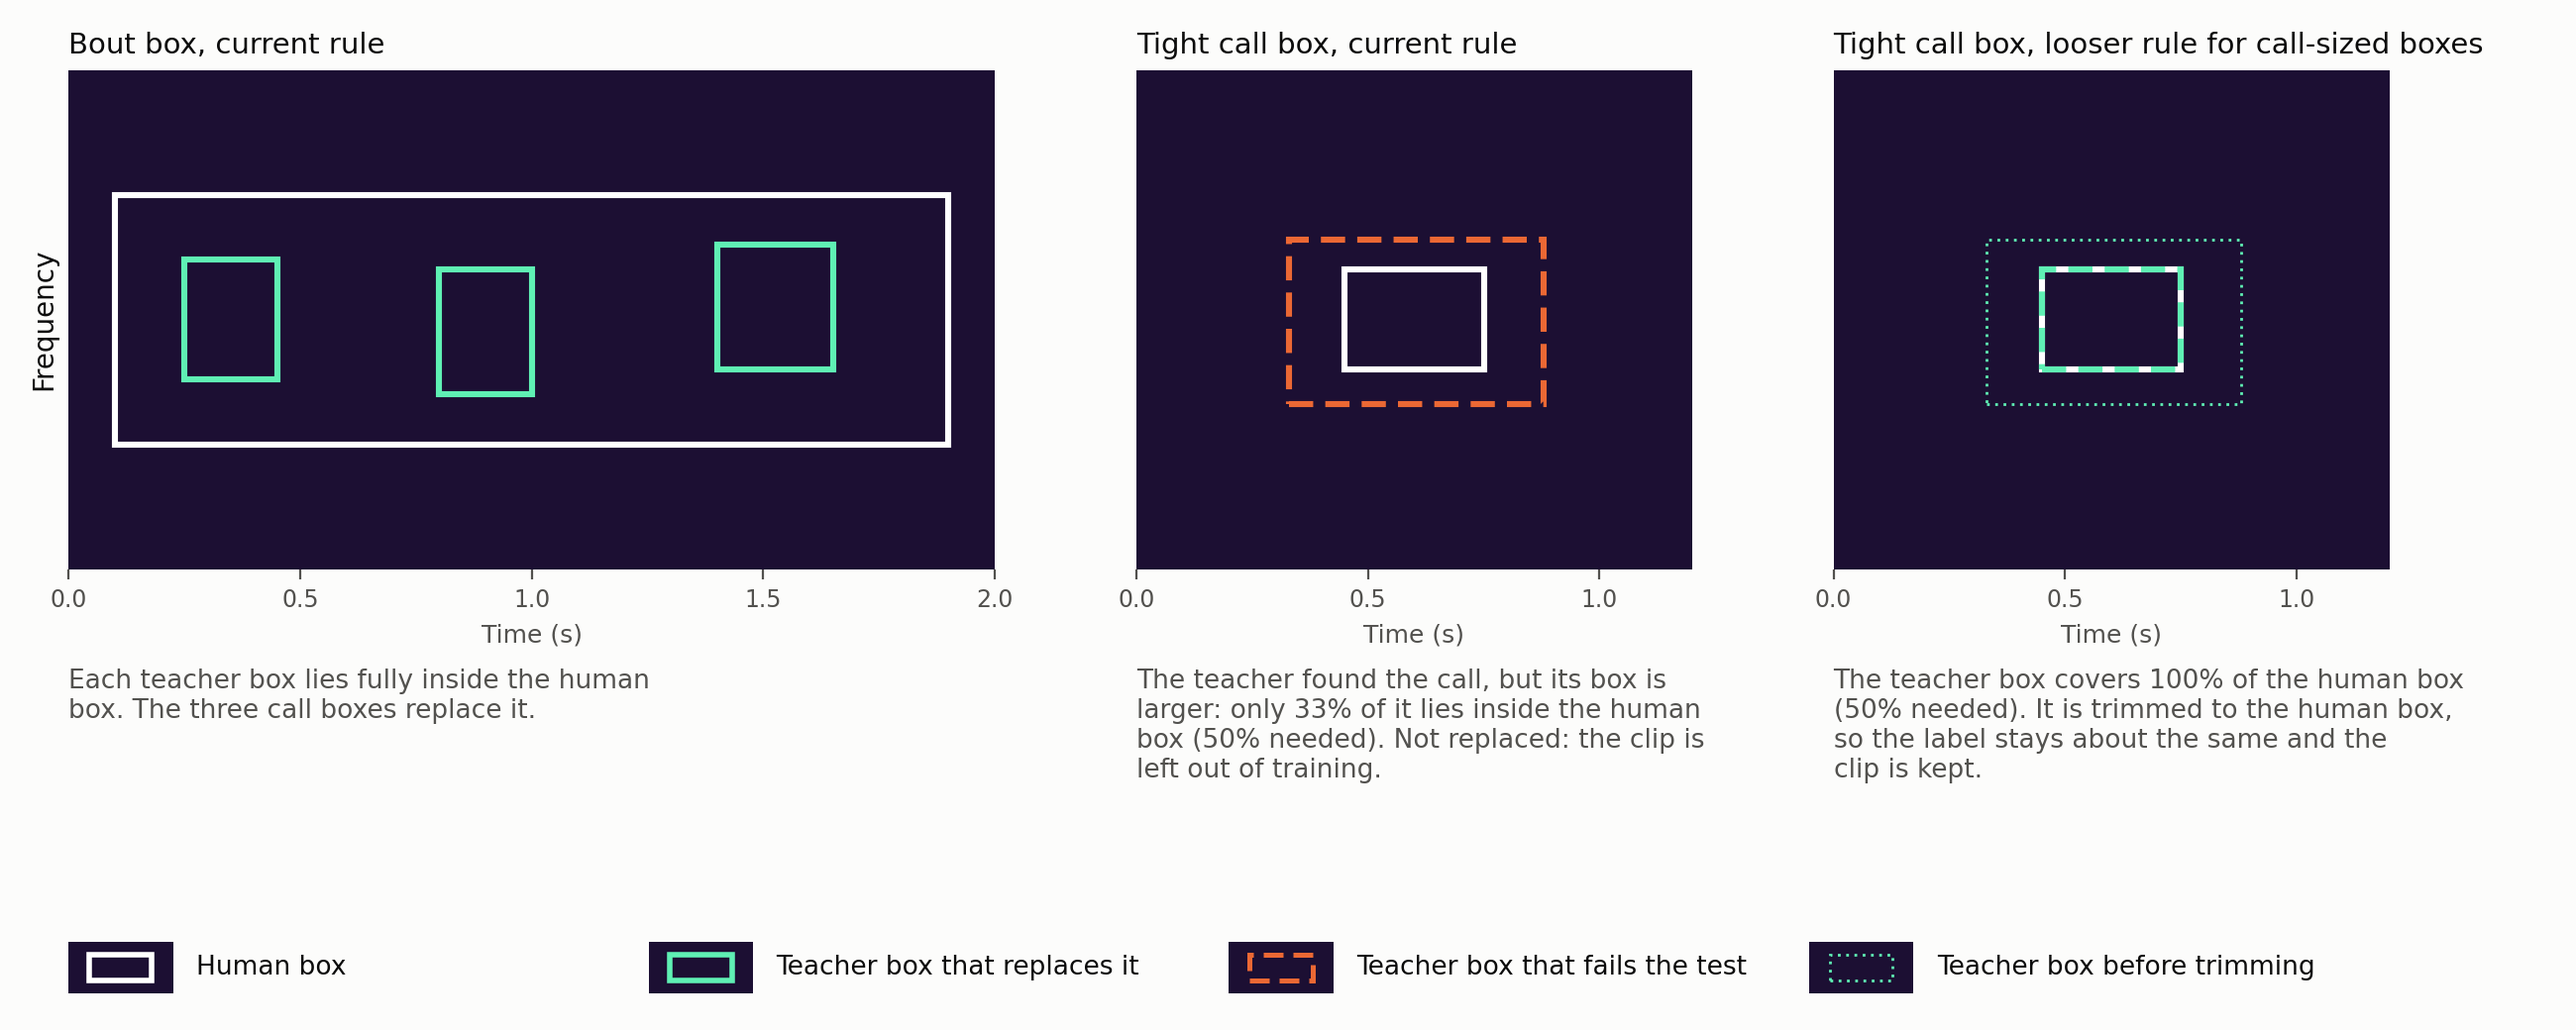
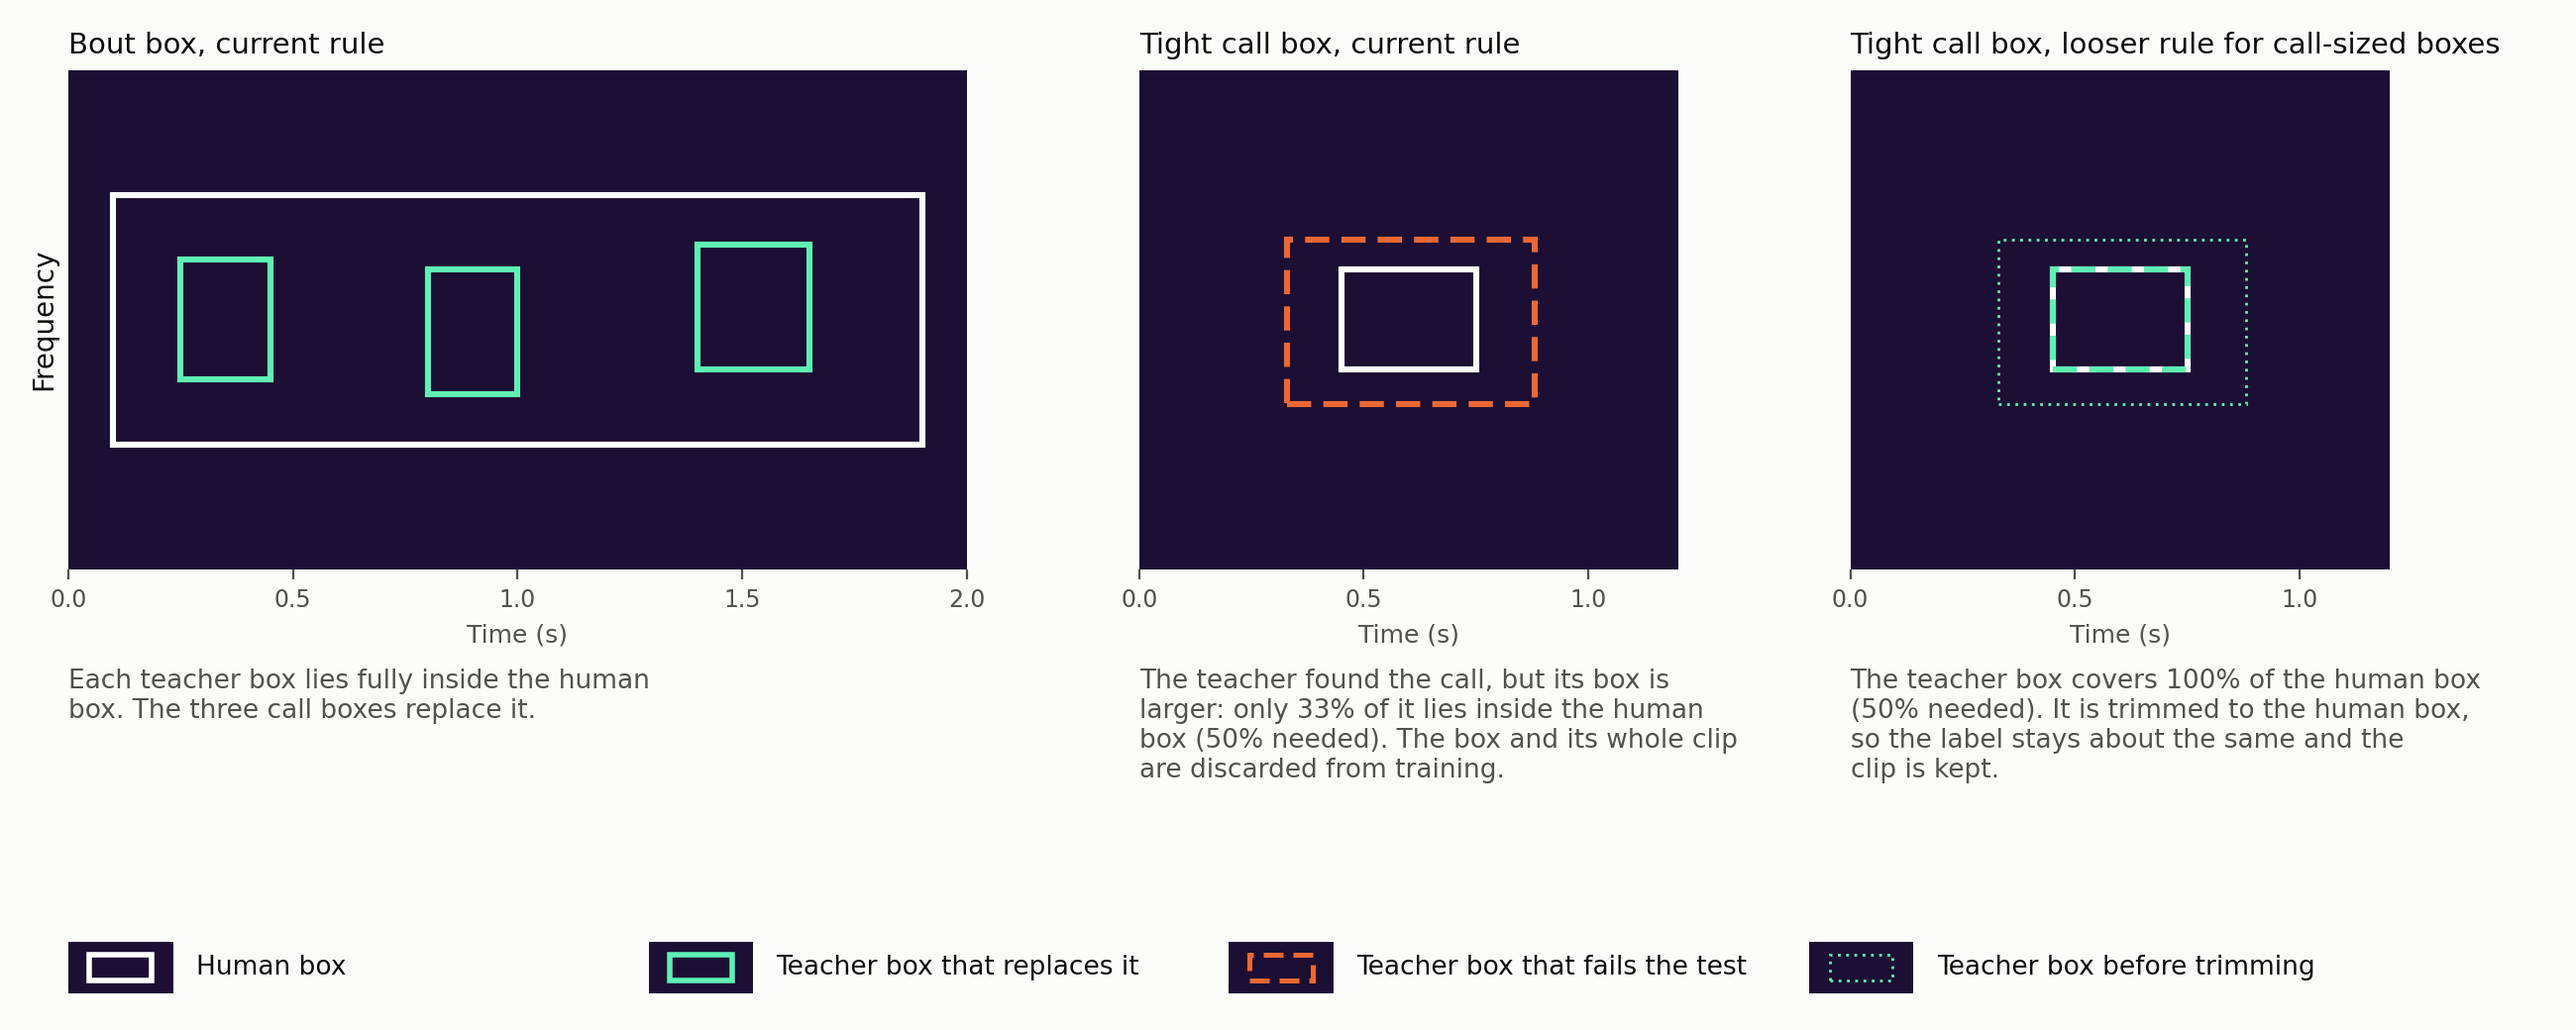
docs: say "discarded" for boxes and clips the refinement drops
"Not replaced" hid what happens: the human box and its whole 3 s clip
are discarded from training.

diff --git a/docs/models-and-metrics/just-bird.md b/docs/models-and-metrics/just-bird.md
@@ -17,7 +17,7 @@ The model was trained on all five regional datasets and on Bird-Sounds-Global:
 - [Western United States](https://doi.org/10.5281/zenodo.7050014){ target="_blank" rel="noopener noreferrer" }
 - Bird-Sounds-Global: annotated soundscapes from [xeno-canto](https://xeno-canto.org){ target="_blank" rel="noopener noreferrer" } (Lifeplan and SystemShift projects) from many countries
 
-**Labels.** Hawai'i and Southern Sierra Nevada are annotated per call. The other datasets mostly put one box around a whole song or bout. Their boxes were replaced by single-call boxes in two rounds of self-training: a model trained on call-level labels found the calls inside each human box. Clips with a human box it could not replace were left out of training. [Training Recipe](#training-recipe) shows how this was done and why.
+**Labels.** Hawai'i and Southern Sierra Nevada are annotated per call. The other datasets mostly put one box around a whole song or bout. Their boxes were replaced by single-call boxes in two rounds of self-training: a model trained on call-level labels found the calls inside each human box. A clip with a human box it could not replace was discarded, together with all its other boxes. [Training Recipe](#training-recipe) shows how this was done and why.
 
 **Recipe.** YOLO11s, started from the COCO weights, trained for 10 epochs on PCEN spectrograms. The learning rate decays to its final value within those 10 epochs, and mixup augmentation is switched off for the last 3 (mosaic augmentation is not used). There is no early stopping.
 
@@ -76,14 +76,14 @@ Trained on the human labels of all datasets, the model learns the bout style and
 
 <img src="../../img/metrics/just_bird_label_example.png" width="1000" alt="A Northeastern US clip with one human bout box, two call boxes from round 1 and five call boxes from round 2">
 
-[How the Labels Are Refined](#how-the-labels-are-refined) explains the rule, what each round changes, and which boxes cannot be replaced.
+[How the Labels Are Refined](#how-the-labels-are-refined) explains the rule, what each round changes, and which boxes and clips are discarded.
 
 ### Each Step on the Unseen Site
 
 <img src="../../img/metrics/just_bird_recipe_steps.png" width="1000" alt="F1 at IoU 0.5 on the full Southern Sierra Nevada recordings for each step of the recipe">
 
 - **More data needs better labels.** The bout-labelled datasets with their human labels lower F1 from 0.280 to 0.122. With the teacher's call labels the same data raises it to 0.380–0.384.
-- **Round 2** ties round 1 on full recordings. It is kept because it leaves out less data, scores higher on 3 s clips (F1 0.368 against 0.343 at IoU 0.5, both trained on a quarter of the data), and its threshold transfers: the one chosen on Hawai'i val loses almost nothing on the new site (0.384 against the best 0.385; round 1: 0.380 against 0.393).
+- **Round 2** ties round 1 on full recordings. It is kept because it discards less data, scores higher on 3 s clips (F1 0.368 against 0.343 at IoU 0.5, both trained on a quarter of the data), and its threshold transfers: the one chosen on Hawai'i val loses almost nothing on the new site (0.384 against the best 0.385; round 1: 0.380 against 0.393).
 - **The previous recipe** trained on the human labels for up to 100 epochs, with early stopping and augmentation from a hyperparameter search.
 
 ### Ten Epochs
@@ -108,7 +108,7 @@ Terms used in this section:
 
 - **Human box:** a box an annotator drew. In these four datasets it usually covers a whole song or bout of several seconds.
 - **Replaced:** the teacher found at least one call box for the human box, and those call boxes take its place. A human box can be replaced by many call boxes or by one.
-- **Not replaced:** the teacher found no call box that qualifies (see the rule below). The human box would stay as the annotator drew it, so **the whole 3 s clip is left out of training**, including any other boxes in it. The clip is not trained on with the original box: training on long bout boxes made the model worse on a new site (F1 0.122 against 0.380, see [Each Step on the Unseen Site](#each-step-on-the-unseen-site)).
+- **Discarded:** the teacher found no call box that qualifies (see the rule below), so the human box cannot be replaced. It is not used as the annotator drew it either: **the human box and its whole 3 s clip are discarded from training**, including any other boxes in that clip. Training on long bout boxes made the model worse on a new site (F1 0.122 against 0.380, see [Each Step on the Unseen Site](#each-step-on-the-unseen-site)), so none is kept.
 - **Call-sized:** the whole annotation, before it was cut into clips, is at most 0.5 s long, the median length of the Hawai'i call labels. Here the annotator boxed a single call. Longer annotations cover a phrase, song or bout; they are 96% of the boxes in these four datasets.
 
 ### The Rule
@@ -119,17 +119,17 @@ For every clip:
 2. **Half-inside test:** a teacher box qualifies for a human box when at least half of the teacher box lies within the human box. Small call boxes inside a bout box pass easily.
 3. The qualifying teacher boxes replace the human box. They are trimmed to its edges, so a new box never leaves the time and frequency range the annotator marked.
 4. Near-duplicates (IoU ≥ 0.6, for example one call inside two overlapping human boxes) are merged, keeping the more confident box.
-5. If no teacher box qualifies, the human box is not replaced and its clip is left out of training.
+5. If no teacher box qualifies, the human box is discarded, and with it the whole clip.
 
 <img src="../../img/metrics/just_bird_half_inside.png" width="1000" alt="Drawing of the half-inside test: a bout box replaced by three call boxes; a tight call box whose larger teacher box fails the test; the same box under the looser rule, where the teacher box is trimmed to it">
 
-The test is measured on the teacher box, which makes it strict with tight call boxes. The teacher often draws a slightly larger box around the same call. Then less than half of the teacher box lies inside the tight human box (middle), so a good label is not replaced and its clip is left out. The looser rule on the right was tested in [Testing a Looser Rule](#testing-a-looser-rule-for-call-sized-boxes).
+The test is measured on the teacher box, which makes it strict with tight call boxes. The teacher often draws a slightly larger box around the same call. Then less than half of the teacher box lies inside the tight human box (middle), so a good label is discarded with its clip. The looser rule on the right was tested in [Testing a Looser Rule](#testing-a-looser-rule-for-call-sized-boxes).
 
 Real clips from the training data:
 
-<img src="../../img/metrics/just_bird_refine_cases.png" width="1000" alt="Six training clips: a bout box replaced by five call boxes, a good call box replaced by an almost identical box, a loose call box replaced by a tighter one, and three boxes that are not replaced">
+<img src="../../img/metrics/just_bird_refine_cases.png" width="1000" alt="Six training clips: a bout box replaced by five call boxes, a good call box replaced by an almost identical box, a loose call box replaced by a tighter one, and three boxes that are discarded">
 
-In the top row the human box is replaced: a bout box by five call boxes, a call box that already fits its call by an almost identical box, and a loose call box by a tighter one. In the bottom row it is not replaced, for the reasons in [Why Boxes Are Not Replaced](#why-boxes-are-not-replaced).
+In the top row the human box is replaced: a bout box by five call boxes, a call box that already fits its call by an almost identical box, and a loose call box by a tighter one. In the bottom row it is discarded with its clip, for the reasons in [Why Boxes Are Discarded](#why-boxes-are-discarded).
 
 Two things the rule cannot do:
 
@@ -138,31 +138,31 @@ Two things the rule cannot do:
 
 ### What Each Round Changes
 
-<img src="../../img/metrics/just_bird_label_rounds.png" width="1000" alt="Median box length per dataset for human, round-1 and round-2 labels, and the share of human boxes not replaced in each round">
+<img src="../../img/metrics/just_bird_label_rounds.png" width="1000" alt="Median box length per dataset for human, round-1 and round-2 labels, and the share of human boxes discarded in each round">
 
-Round 1 cuts the median box length from 1.15–3.0 s to 0.43–1.16 s, and round 2 to 0.38–0.82 s, close to the 0.50 s of the call-level Hawai'i labels. The larger effect of round 2 is that it replaces more of the bout boxes, so far fewer clips are left out:
+Round 1 cuts the median box length from 1.15–3.0 s to 0.43–1.16 s, and round 2 to 0.38–0.82 s, close to the 0.50 s of the call-level Hawai'i labels. The larger effect of round 2 is that it replaces more of the bout boxes, so far fewer clips are discarded:
 
-| Dataset | Training clips | Left out, round 1 | Left out, round 2 | Used for training |
+| Dataset | Training clips | Discarded, round 1 | Discarded, round 2 | Used for training |
 | :--- | :---: | :---: | :---: | :---: |
 | Northeastern US | 116,780 | 25,847 (22%) | 10,617 (9%) | 106,163 |
 | Western US | 36,435 | 13,605 (37%) | 9,014 (25%) | 27,421 |
 | Amazon Basin | 31,264 | 23,730 (76%) | 18,101 (58%) | 13,163 |
 | Bird-Sounds-Global | 84,404 | 23,826 (28%) | 15,334 (18%) | 69,070 |
 
-Amazon Basin loses the most. Its recordings are dense choruses with long, overlapping annotations, and even after round 2 more than half of its clips hold a box that is not replaced.
+Amazon Basin loses the most. Its recordings are dense choruses with long, overlapping annotations, and even after round 2 more than half of its clips are discarded.
 
-### Why Boxes Are Not Replaced
+### Why Boxes Are Discarded
 
-Not replaced does not mean the teacher judged the human box to be correct. When the teacher finds the call in a good call box, it replaces it with about the same box (the second real clip above). A human box is not replaced only when no teacher box passes the half-inside test, for one of two reasons:
+A discarded box is not one the teacher judged to be correct: when the teacher finds the call in a good call box, it replaces it with about the same box (the second real clip above). A human box is discarded only when no teacher box passes the half-inside test, for one of two reasons:
 
 - **No teacher box.** The teacher finds nothing in the box. Usually this is a stretch of a long annotation where the bird is silent or barely audible in this clip, or a faint call.
 - **The teacher box sticks out.** Teacher boxes touch the human box, but less than half of each lies inside it. This happens where boxes of several birds overlap, as in the Amazon Basin choruses, and where the teacher draws a larger box around a call than the annotator did (the drawing above).
 
-To see which boxes these are, every human box was traced back to the whole annotation it was cut from, and the teacher was run again on every clip with a box that was not replaced:
+To see which boxes these are, every human box was traced back to the whole annotation it was cut from, and the teacher was run again on every clip with a discarded box:
 
-<img src="../../img/metrics/just_bird_not_replaced.png" width="1000" alt="Left: share of human boxes not replaced, by annotation length, per dataset. Right: the boxes not replaced, divided into call-sized and longer annotations, and by whether the teacher found nothing or its box stuck out">
+<img src="../../img/metrics/just_bird_discarded.png" width="1000" alt="Left: share of human boxes discarded, by annotation length, per dataset. Right: the discarded boxes, divided into call-sized and longer annotations, and by whether the teacher found nothing or its box stuck out">
 
-| Dataset | Human boxes | Call-sized | Not replaced, all boxes | Not replaced, call-sized | Call-sized share of the boxes not replaced |
+| Dataset | Human boxes | Call-sized | Discarded, all boxes | Discarded, call-sized | Call-sized share of the discarded boxes |
 | :--- | :---: | :---: | :---: | :---: | :---: |
 | Northeastern US | 151,983 | 5,423 (3.6%) | 7% | 22% | 11% |
 | Western US | 54,951 | 316 (0.6%) | 19% | 70% | 2% |
@@ -172,22 +172,22 @@ To see which boxes these are, every human box was traced back to the whole annot
 
 Round 2, training split, boxes counted per 3 s clip.
 
-- **Call-sized boxes are not replaced more often** than longer ones: 31% against 16% over all four datasets. In 62% of these cases the teacher did find something, but its box sticks out, as in the drawing.
-- **But call-sized boxes are rare.** These datasets were annotated per bout, and only 3.6% of their boxes are call-sized. They make up 7% of the boxes not replaced.
-- **Most boxes not replaced come from long annotations.** In 48% of them the teacher found nothing, mostly silent or faint stretches. In the rest its boxes stick out, above all in Amazon Basin (65% of its boxes not replaced).
+- **Call-sized boxes are discarded more often** than longer ones: 31% against 16% over all four datasets. In 62% of these cases the teacher did find something, but its box sticks out, as in the drawing.
+- **But call-sized boxes are rare.** These datasets were annotated per bout, and only 3.6% of their boxes are call-sized. They make up 7% of the discarded boxes.
+- **Most discarded boxes come from long annotations.** In 48% of them the teacher found nothing, mostly silent or faint stretches. In the rest its boxes stick out, above all in Amazon Basin (65% of its discarded boxes).
 
 ### Testing a Looser Rule for Call-Sized Boxes
 
 Because the half-inside test rejects good call boxes whenever the teacher draws a larger box, a looser rule was tested on the same hold-out. For call-sized human boxes only, a teacher box also qualifies when it covers at least half of the human box. It is trimmed to the human box, so the label stays about the same as the annotator drew it, and the clip stays in training. In short: if the teacher confirms there is a call, the clip is kept.
 
-This keeps 1,604 clips that the current rule leaves out, 0.6% more bout-labelled training data. A model trained with them, with the recipe otherwise unchanged, scores:
+This keeps 1,604 clips that the current rule discards, 0.6% more bout-labelled training data. A model trained with them, with the recipe otherwise unchanged, scores:
 
 | Rule | Unseen site, IoU 0.25 / 0.5 / 0.75 | Unseen site, IoU 0.5 at the Hawai'i-val threshold | Hawai'i val, IoU 0.5 |
 | :--- | :---: | :---: | :---: |
 | Current | 0.540 / 0.385 / 0.116 | 0.384 | 0.581 |
 | Looser for call-sized boxes | 0.541 / 0.389 / 0.120 | 0.387 | 0.583 |
 
-Every score is 0.001–0.005 higher, less than a second training run with another seed would move it. Leaving these clips out costs nothing measurable, and keeping them does no harm. The released model keeps the current rule. The looser one remains an option (`--call-cover` in `refine_coarse_boxes.py`) for the next time the labels are rebuilt.
+Every score is 0.001–0.005 higher, less than a second training run with another seed would move it. Discarding these clips costs nothing measurable, and keeping them does no harm. The released model keeps the current rule. The looser one remains an option (`--call-cover` in `refine_coarse_boxes.py`) for the next time the labels are rebuilt.
 
 ---
 
